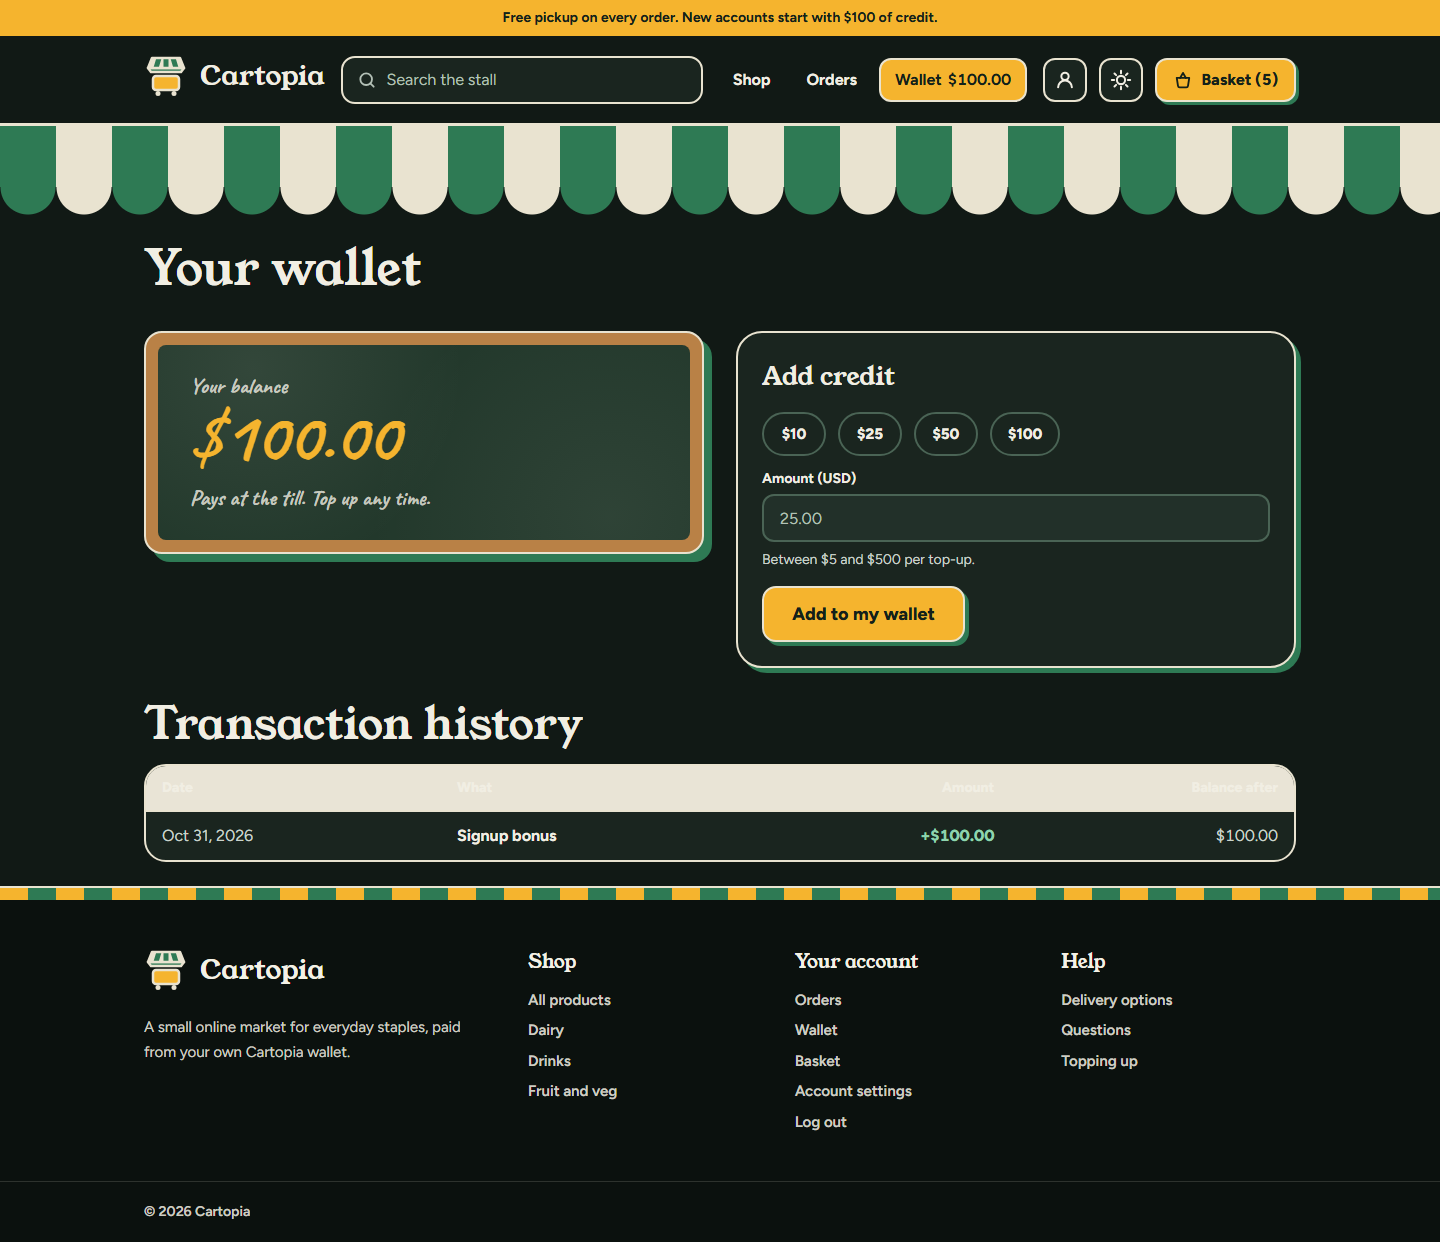
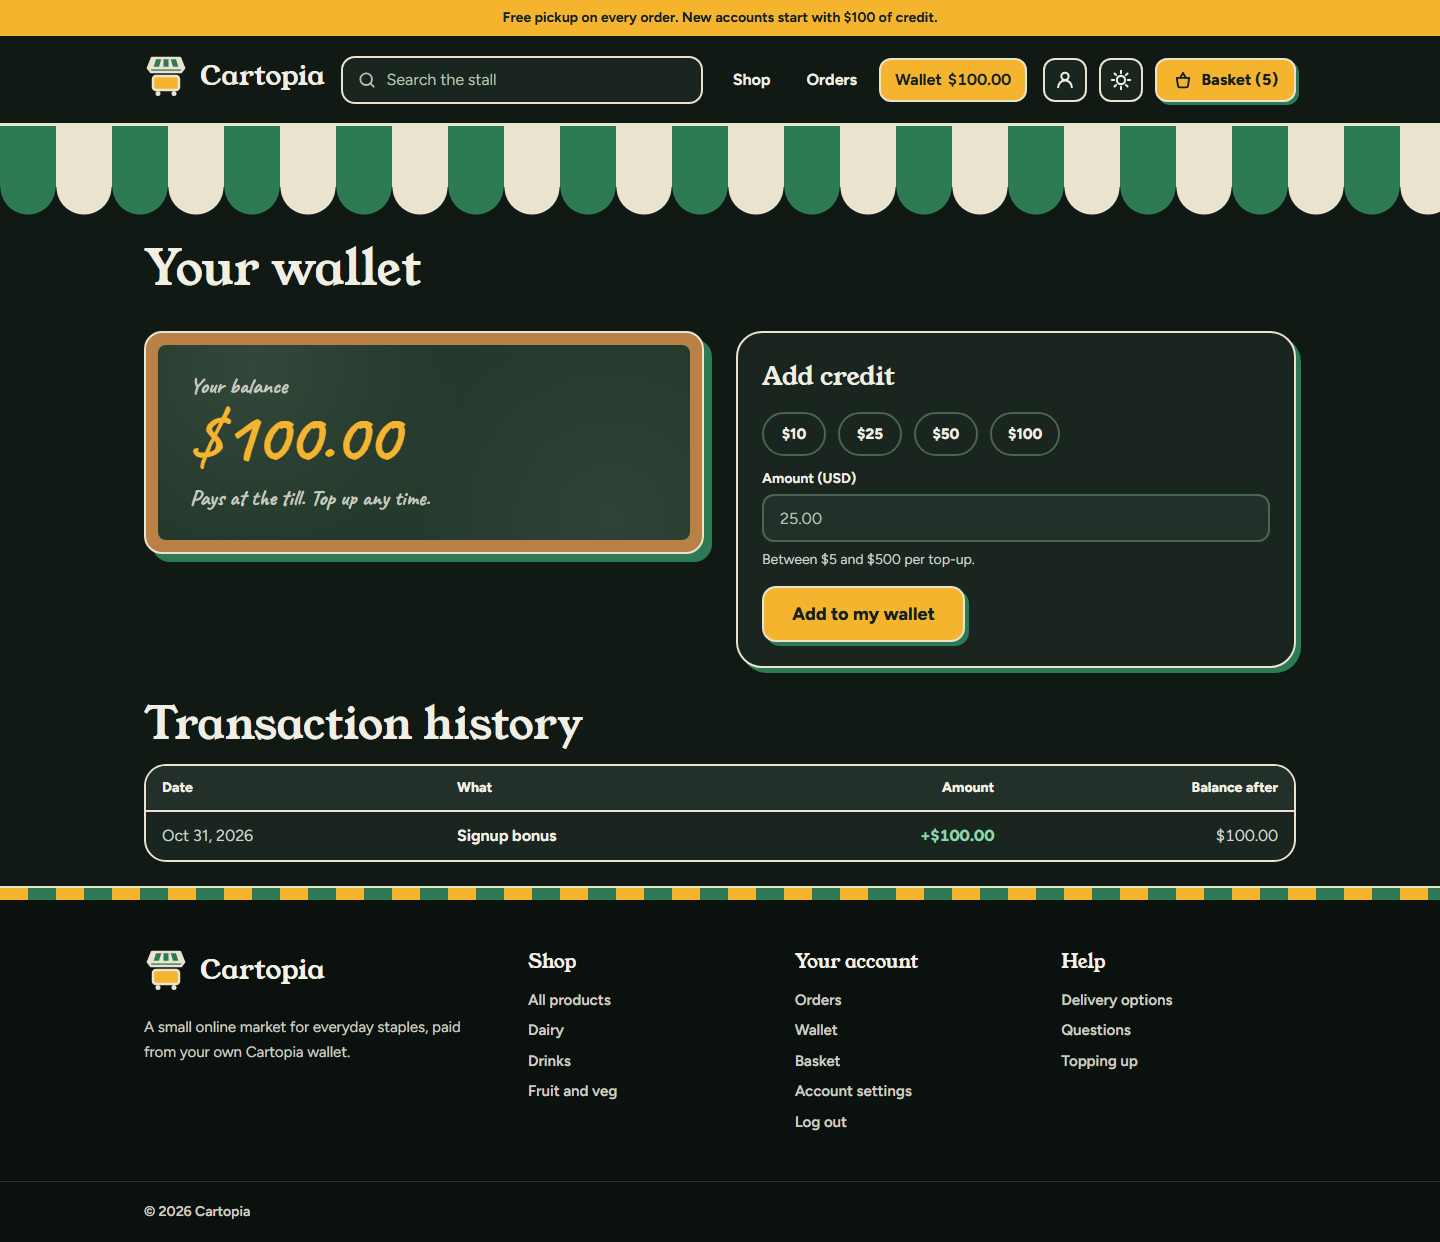
Keep text readable on wallet and empty-state surfaces in dark mode
bg-well stays light in dark mode because it backs product photos, so text-ink on it vanished (the wallet history header was a cream bar with invisible column names). Surfaces that carry text or icons now use bg-field, which is identical in light mode and dark in dark mode. Adds a dark-mode browser regression test and refreshes wallet-dark.png.

Changed region(s): [[0.0938, 0.6119, 0.9062, 0.6731]]

diff --git a/resources/js/pages/cart/CartPage.vue b/resources/js/pages/cart/CartPage.vue
@@ -32,7 +32,7 @@ const props = defineProps<{
             <div class="flex flex-col items-center gap-5 text-center">
                 <span
                     aria-hidden="true"
-                    class="inline-flex size-28 items-center justify-center rounded-full border-[2.5px] border-outline bg-well text-ink"
+                    class="inline-flex size-28 items-center justify-center rounded-full border-[2.5px] border-outline bg-field text-ink"
                 >
                     <Icon name="basket" :size="56" />
                 </span>

diff --git a/resources/js/pages/orders/OrdersIndexPage.vue b/resources/js/pages/orders/OrdersIndexPage.vue
@@ -27,7 +27,7 @@ const props = defineProps<{
         >
             <span
                 aria-hidden="true"
-                class="inline-flex size-28 items-center justify-center rounded-full border-[2.5px] border-outline bg-well text-ink"
+                class="inline-flex size-28 items-center justify-center rounded-full border-[2.5px] border-outline bg-field text-ink"
             >
                 <Icon name="basket" :size="56" />
             </span>

diff --git a/resources/js/modules/orders/OrderThumbnails.vue b/resources/js/modules/orders/OrderThumbnails.vue
@@ -20,7 +20,7 @@ const props = defineProps<{
         />
         <span
             v-if="props.thumbnails.length === 0"
-            class="inline-flex size-14 items-center justify-center rounded-xl border-2 border-outline bg-well text-ink"
+            class="inline-flex size-14 items-center justify-center rounded-xl border-2 border-outline bg-field text-ink"
         >
             <Icon name="basket" :size="26" />
         </span>

diff --git a/resources/js/modules/wallet/LedgerTable.vue b/resources/js/modules/wallet/LedgerTable.vue
@@ -27,7 +27,7 @@ const props = defineProps<{
     >
         <table class="w-full min-w-[34rem] border-collapse text-left">
             <thead>
-                <tr class="border-b-2 border-outline bg-well text-ink">
+                <tr class="border-b-2 border-outline bg-field text-ink">
                     <th scope="col" class="px-4 py-3 text-sm font-extrabold">
                         Date
                     </th>

diff --git a/resources/js/modules/cart/AddedToBasketPanel.vue b/resources/js/modules/cart/AddedToBasketPanel.vue
@@ -50,7 +50,7 @@ function close(): void {
     >
         <div v-if="shown" class="flex flex-col gap-6">
             <div
-                class="flex items-center gap-4 rounded-[18px] border-[1.5px] border-line bg-well p-3"
+                class="flex items-center gap-4 rounded-[18px] border-[1.5px] border-line bg-field p-3"
                 data-test="added-item"
             >
                 <span

diff --git a/tests/Browser/OrdersWalletTest.php b/tests/Browser/OrdersWalletTest.php
@@ -73,3 +73,34 @@ it('shows the order-placed banner after checkout but not when coming back to it'
         ->assertDontSee('Order placed.')
         ->assertDontSee('Your receipt is below.');
 });
+
+it('keeps the transaction history header on the field surface in dark mode', function () {
+    $user = User::factory()->create();
+    WalletTransaction::create([
+        'user_id' => $user->id,
+        'type' => WalletTransactionType::AdminAdjustment,
+        'amount' => Money::fromCents(500),
+        'balance_after' => Money::fromCents(500),
+        'description' => 'Goodwill credit',
+    ]);
+
+    $this->actingAs($user);
+
+    // The photo backdrop (--well) stays light in dark mode, so text-ink on it
+    // would vanish: the header row has to sit on --field instead.
+    $page = visit('/wallet')->assertPresent('[data-test="ledger-row"]');
+    $page->script("localStorage.setItem('appearance', 'dark'); document.documentElement.classList.add('dark');");
+
+    $page->assertScript(<<<'JS'
+        (() => {
+            const probe = document.createElement('div');
+            probe.style.backgroundColor = 'var(--field)';
+            document.body.appendChild(probe);
+            const field = getComputedStyle(probe).backgroundColor;
+            probe.remove();
+            const tr = document.querySelector('thead tr');
+            return getComputedStyle(tr).backgroundColor === field
+                && getComputedStyle(tr.querySelector('th')).color !== field;
+        })()
+        JS, true);
+});
